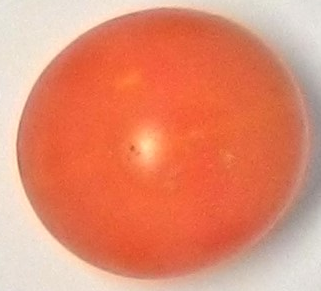
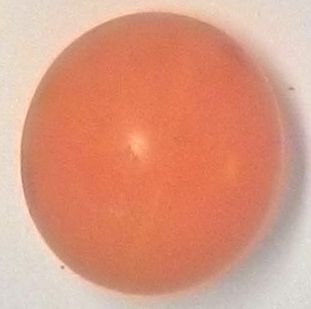
sementes individuais atualizadas

diff --git a/Funcoes/trabalho2.m b/Funcoes/trabalho2.m
@@ -7,7 +7,7 @@ function trabalho2()
     tamanhoDoElementoEstruturanteFechamento = 1;
     removerElementosDeTamanho = 1000;
     
-    for i = 7:12
+    for i = 36:36
         
         imEntrada = imread(['..\Imagens\Segundo Trabalho\HDR Fonte Unica\' num2str(i) '.jpg']);
     
